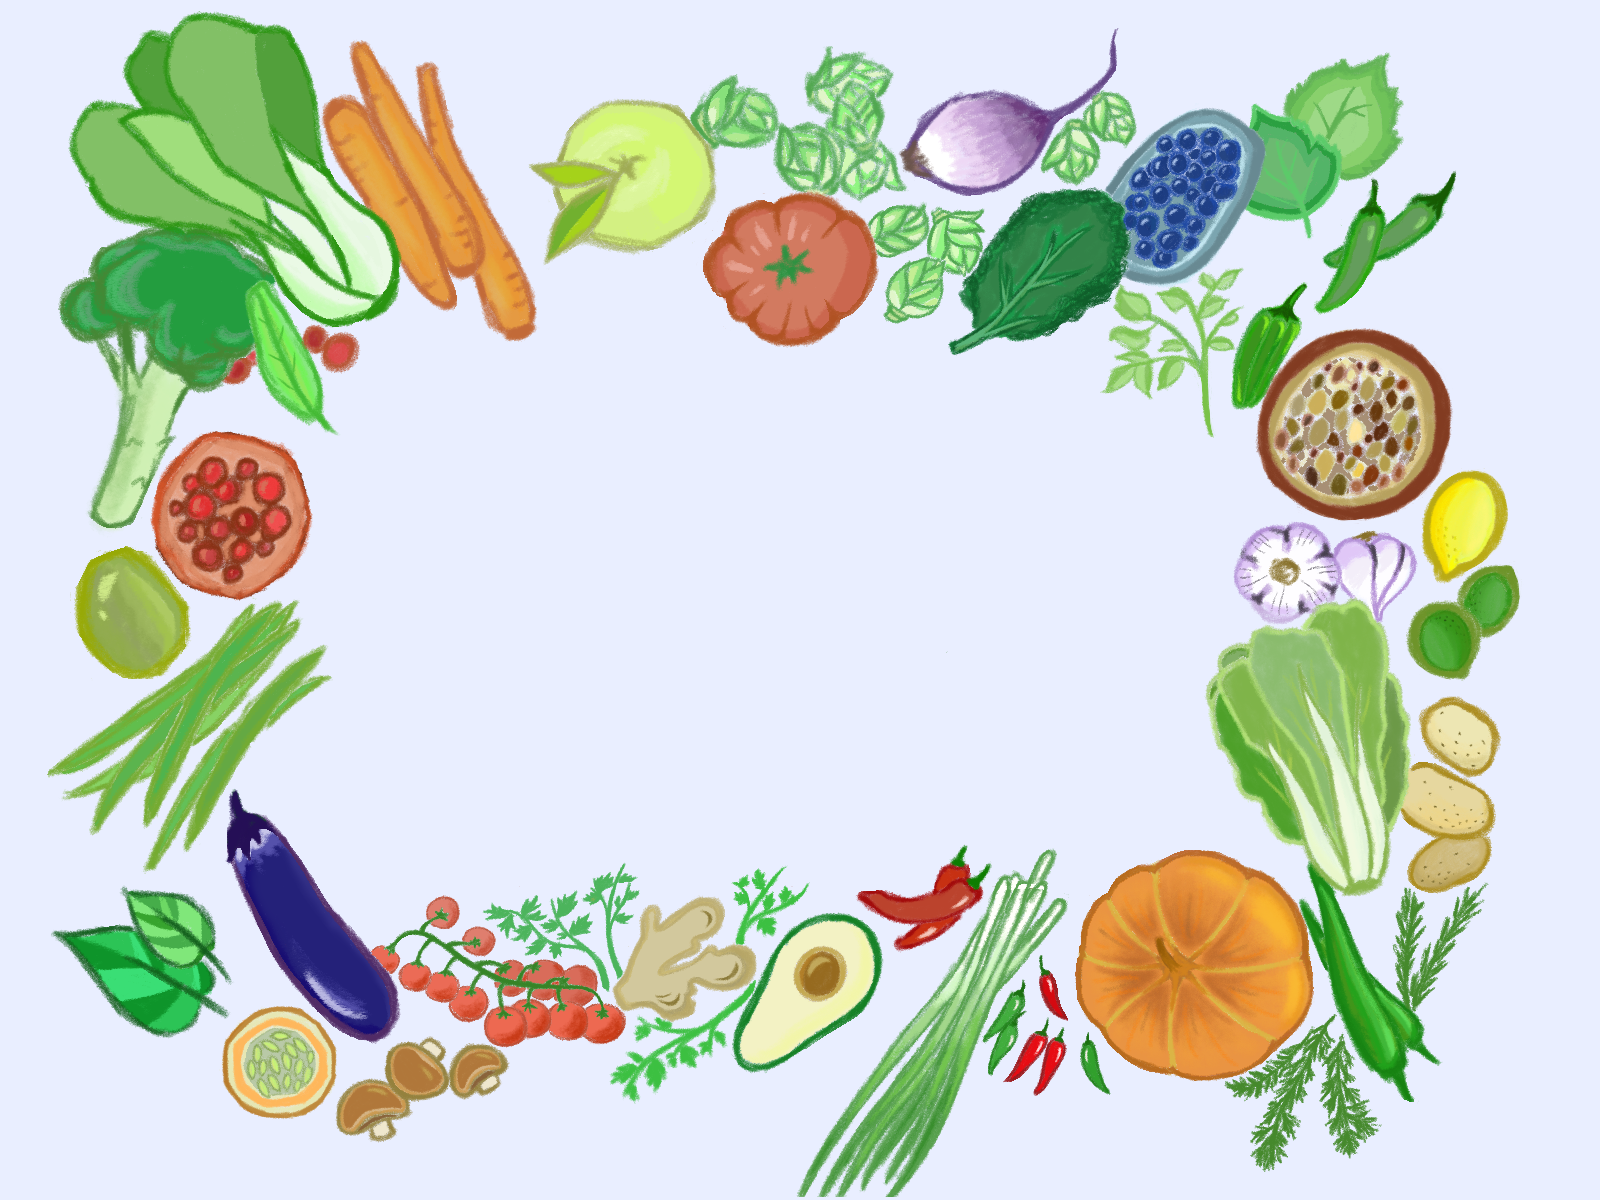
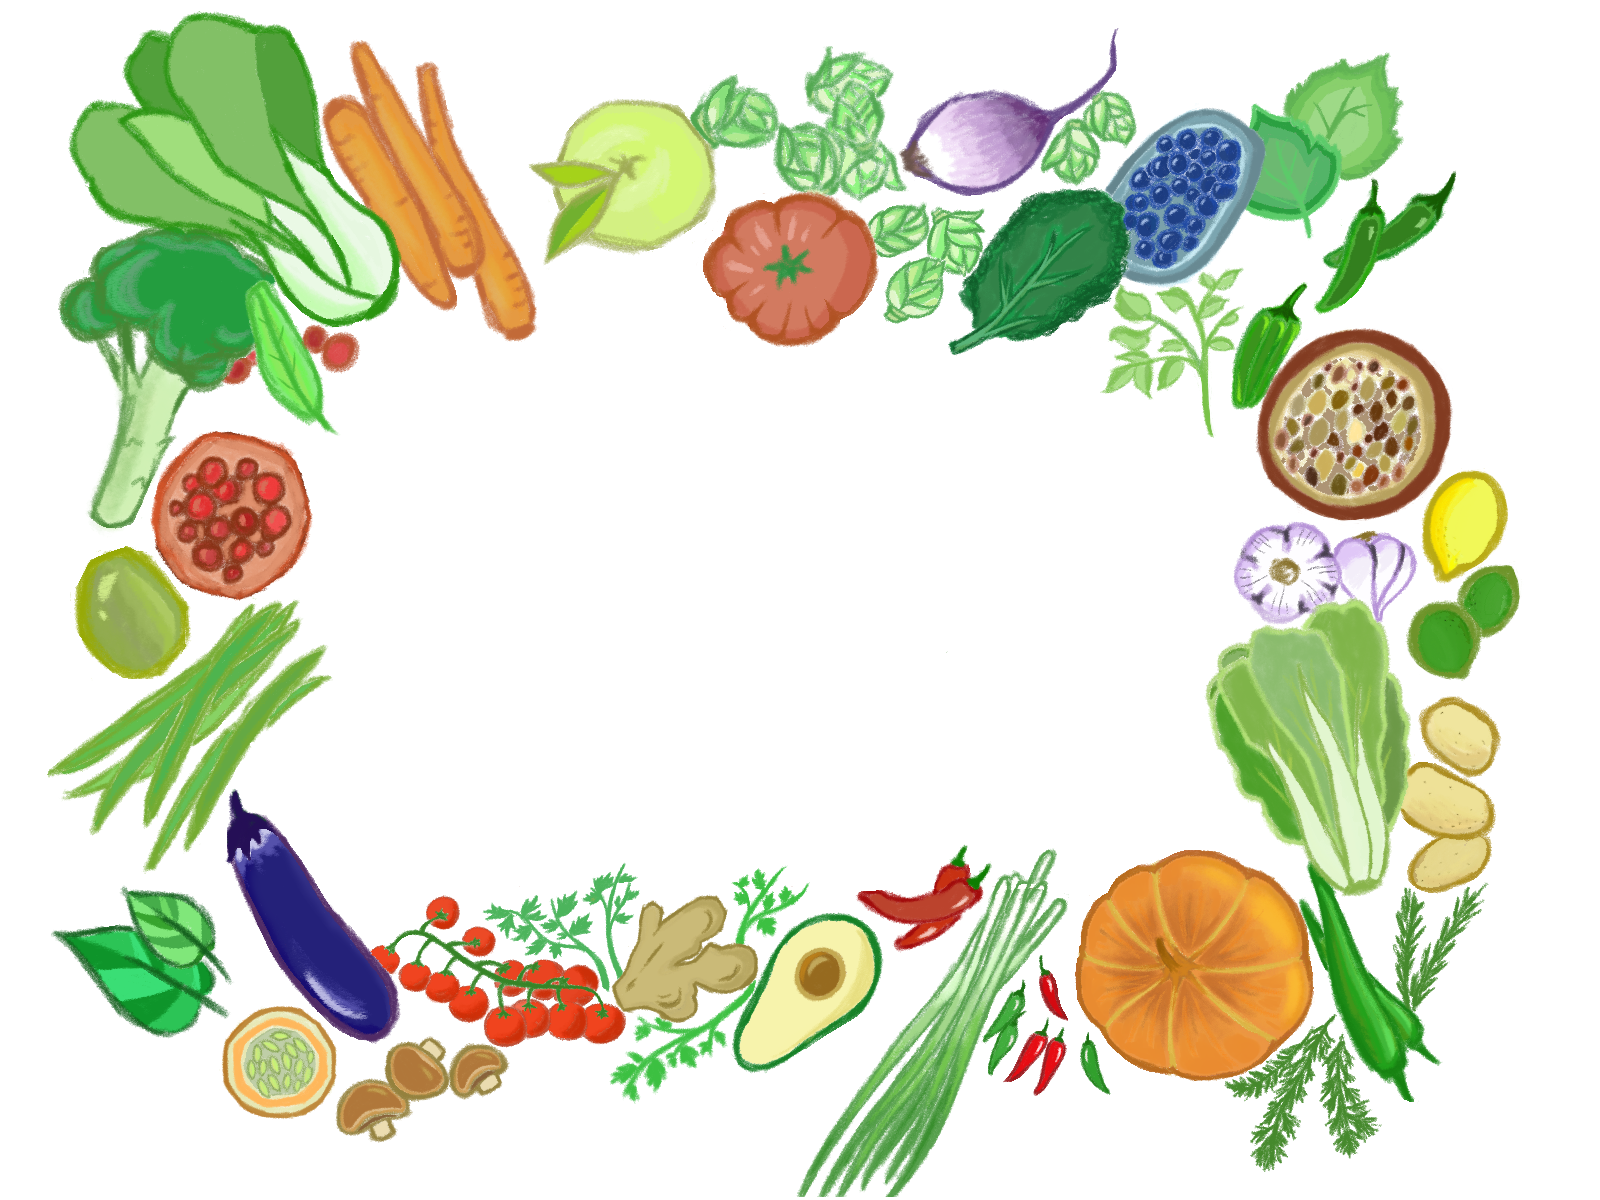
added new background and header design

diff --git a/components/App.js b/components/App.js
@@ -160,18 +160,24 @@ class App extends React.Component {
   }
 
   render() {
-    const { tags, suggestions, recipes, diets, expanded } = this.state;
+    const { tags, suggestions, allRecipes, recipes, diets, expanded } =
+      this.state;
 
     return (
       <div className="app" onClick={this.checkCollapseFilter}>
-        <div className="searchBar">
+        <div
+          className="searchBar pt-28 pb-48 "
+          style={{
+            backgroundImage: ["url(search-bg.jpg)"],
+          }}
+        >
           <div
-            className="h-screen bg-local bg-center bg-contain bg-no-repeat bg"
+            className="searchBar-veggies h-screen bg-local bg-center bg-contain bg-no-repeat "
             style={{
               backgroundImage: ["url(veggies.png)"],
             }}
           >
-            <div className="w-1/3 bg-white mx-auto my-96">
+            <div className="w-96 bg-white mx-auto">
               <ReactTags
                 ref={this.reactTags}
                 tags={tags}
@@ -182,7 +188,9 @@ class App extends React.Component {
               />
             </div>
           </div>
+        </div>
 
+        <div className="flex justify-center relative">
           <img src="thinking-cook.png" />
         </div>
 
@@ -242,11 +250,15 @@ class App extends React.Component {
             youtubeKey={this.props.youtubeKey}
           />
         </div>
-        <img
-          src="down-chevron.png"
-          className="max-w-1/32"
-          onClick={this.showMoreRecipes}
-        />
+        {allRecipes.length > 12 ? (
+          <img
+            src="down-chevron.png"
+            className="max-w-1/32"
+            onClick={this.showMoreRecipes}
+          />
+        ) : (
+          ""
+        )}
       </div>
     );
   }

diff --git a/components/SingleRecipe.js b/components/SingleRecipe.js
@@ -14,24 +14,18 @@ export default function SingleRecipe(props) {
         </div>
         <div className="flex flex-row mr-20">
           <div className="mr-40 my-5">
-            <h2 className="sub-title">Summary</h2>
-            <div
-              dangerouslySetInnerHTML={{
-                __html: recipeDetail.summary,
-              }}
-            ></div>
             <div className="mt-8">
               <h2 className="sub-title">Instructions</h2>
               {!instructions[0] ? (
                 ""
               ) : (
-                <ol className="list-decimal mx-4">
+                <ol className="list-decimal mx-6">
                   {instructions[0].steps.map((stp) => (
                     <li key={stp.number}>{stp.step}</li>
                   ))}
                 </ol>
               )}
-              <div className="font-bold text-lg my-8">
+              <div className="font-bold text-lg my-10">
                 <p>For more detailed instructions, click the button below.</p>
                 <a target="_blank" href={recipeDetail.sourceUrl}>
                   <button className="my-2 py-2 px-2 rounded focus:ring font-bold text-white bg-teal-500  hover:bg-teal-700 ">
@@ -41,10 +35,10 @@ export default function SingleRecipe(props) {
               </div>
             </div>
           </div>
-          <div>
+          <div className="my-16">
             <iframe
-              width="580"
-              height="350"
+              width="620"
+              height="400"
               src={`https://www.youtube.com/embed/${id}`}
               title="YouTube video player"
               frameborder="0"

diff --git a/pages/index.js b/pages/index.js
@@ -5,12 +5,14 @@ export default function Home(props) {
   return (
     <>
       <Head>
-        <title>Recipe Chef</title>
-        <link rel="icon" href="/olive.png" />
+        <title>Chow Meow Now!</title>
+        <link rel="icon" href="/noodles.png" />
       </Head>
       <main className="flex flex-col w-full">
-        <h1 className="my-title">Recipe Chef </h1>
-        <div className="flex flex-col mt-10">
+        <h1 className="absolute w-full flex justify-center bg-opacity-25 bg-white">
+          <img src="chowmeow.png" className="my-3 w-64 h-18" />
+        </h1>
+        <div className="">
           <App
             spoonacularKey={props.spoonacularKey}
             youtubeKey={props.youtubeKey}

diff --git a/tailwind.config.js b/tailwind.config.js
@@ -33,6 +33,16 @@ module.exports = {
       "1/2": "50%",
       "3/4": "75%",
     },
+
+    borderRadius: {
+      none: "0",
+      large: "600px",
+      medium: "280px",
+      lg: "0.5rem",
+      md: "0.375rem",
+      sm: "0.125rem",
+      full: "9999px",
+    },
   },
   purge: ["./pages/**/*.{js,ts,jsx,tsx}", "./components/**/*.{js,ts,jsx,tsx}"],
   darkMode: false, // or 'media' or 'class'

diff --git a/styles/global.scss b/styles/global.scss
@@ -14,6 +14,15 @@ body {
   box-sizing: border-box;
 }
 
+.searchBar {
+  background-position: left top;
+  background-size: 100% 100%;
+}
+
+.searchBar-veggies {
+  padding-top: calc(50vh - 30px);
+}
+
 .my-title {
   @apply shadow-md text-3xl mt-3 bg-green-800 text-white rounded-md p-3;
 }
